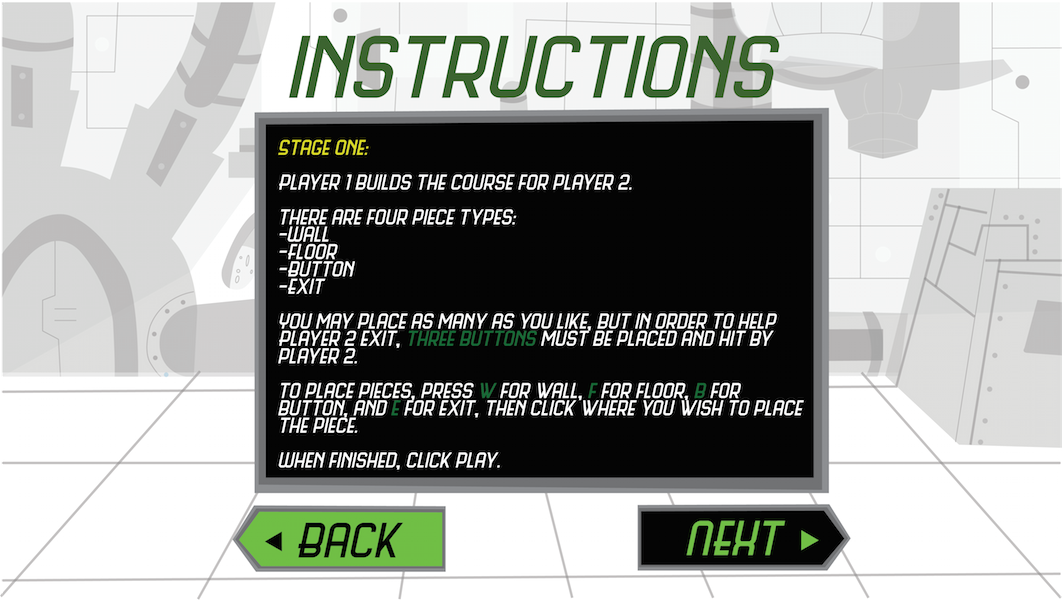
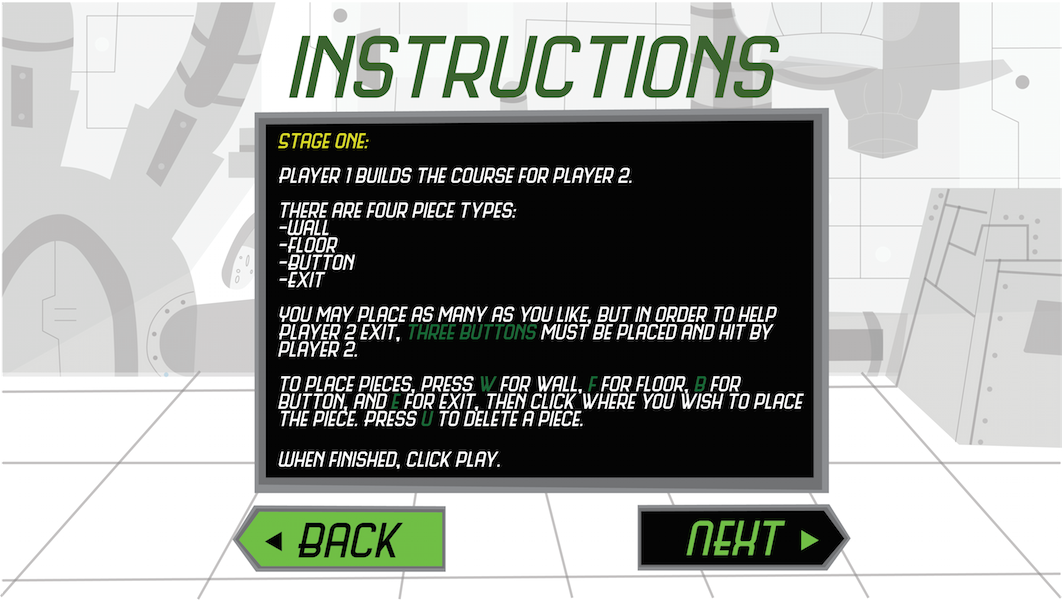
used stack for piece removal

Changed region(s): [[0.2486, 0.21, 0.7768, 0.72], [0.2486, 0.75, 0.4661, 0.78]]

diff --git a/src/game/GameScreen.java b/src/game/GameScreen.java
@@ -7,6 +7,7 @@ import javafx.scene.layout.*;
 
 import java.util.ArrayList;
 import java.util.List;
+import java.util.Stack;
 
 /**
  * Created by twalker61 on 11/14/16.
@@ -22,14 +23,15 @@ public class GameScreen extends StackPane {
     private double mouseX;
     private double mouseY;
     private GameElement lastPiece;
-    private List<GameElement> lastPieceList;
     private String pieceKey;
+    private Stack<String> pieceKeys;
     private boolean builderMode;
     private static Main main;
 
     public GameScreen(Main m, boolean mode) {
         builderMode = mode;
         main = m;
+        pieceKeys = new Stack<>();
         backgroundElements = new AnchorPane();
         background = new HBox();
         Floor starter = new Floor();
@@ -95,6 +97,7 @@ public class GameScreen extends StackPane {
 
         this.setOnMouseClicked(e -> {
             if (pieceKey != null ) {
+                pieceKeys.add(pieceKey);
                 if (pieceKey.equals("w")) {
                     lastPiece = new Wall();
                     //lastPieceList = walls;
@@ -125,20 +128,24 @@ public class GameScreen extends StackPane {
     public void setPieceSelector(KeyEvent e) {
         KeyCode k = e.getCode();
         if (k.getName().toLowerCase().equals("u")) {
-            if (pieceKey != null) {
-                if (pieceKey.equals("f") && floorTiles.size() > 0) {
+            String p = null;
+            if (pieceKeys.size() > 0) {
+                p = pieceKeys.pop();
+            }
+            if (p != null) {
+                if (p.equals("f") && floorTiles.size() > 0) {
                     floorTiles.remove(floorTiles.size() - 1);
                     backgroundElements.getChildren().remove(backgroundElements.getChildren().size() - 1);
                 }
-                if (pieceKey.equals("w") && walls.size() > 0) {
+                if (p.equals("w") && walls.size() > 0) {
                     walls.remove(walls.size() - 1);
                     backgroundElements.getChildren().remove(backgroundElements.getChildren().size() - 1);
                 }
-                if (pieceKey.equals("b") && buttons.size() > 0) {
+                if (p.equals("b") && buttons.size() > 0) {
                     buttons.remove(buttons.size() - 1);
                     backgroundElements.getChildren().remove(backgroundElements.getChildren().size() - 1);
                 }
-                if (pieceKey.equals("e") && exits.size() > 0) {
+                if (p.equals("e") && exits.size() > 0) {
                     exits.remove(exits.size() - 1);
                     backgroundElements.getChildren().remove(backgroundElements.getChildren().size() - 1);
                 }
